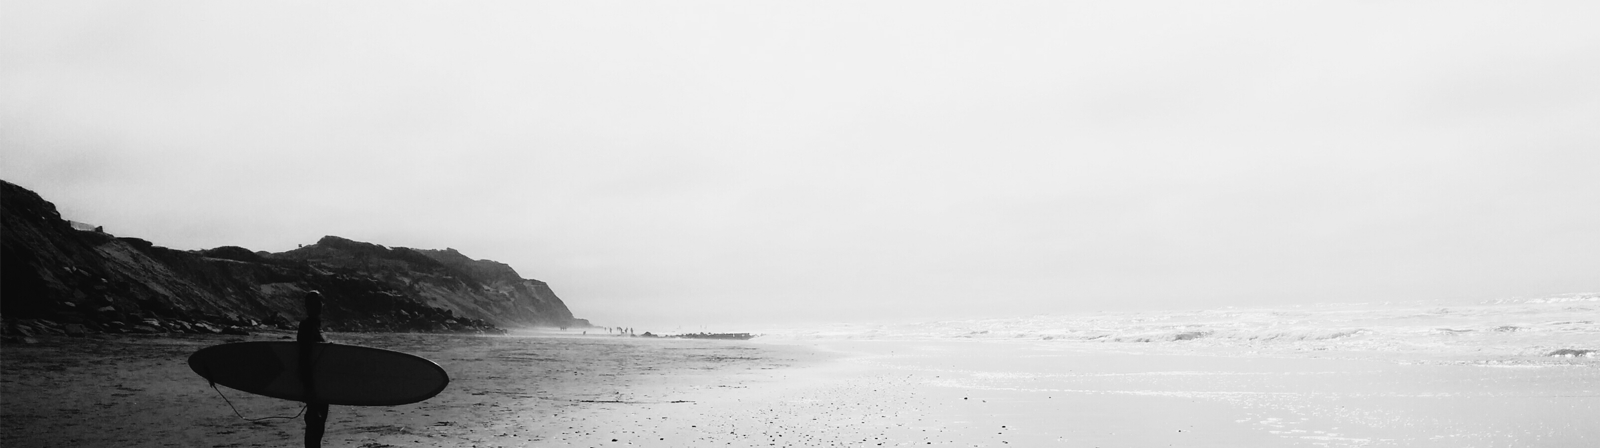
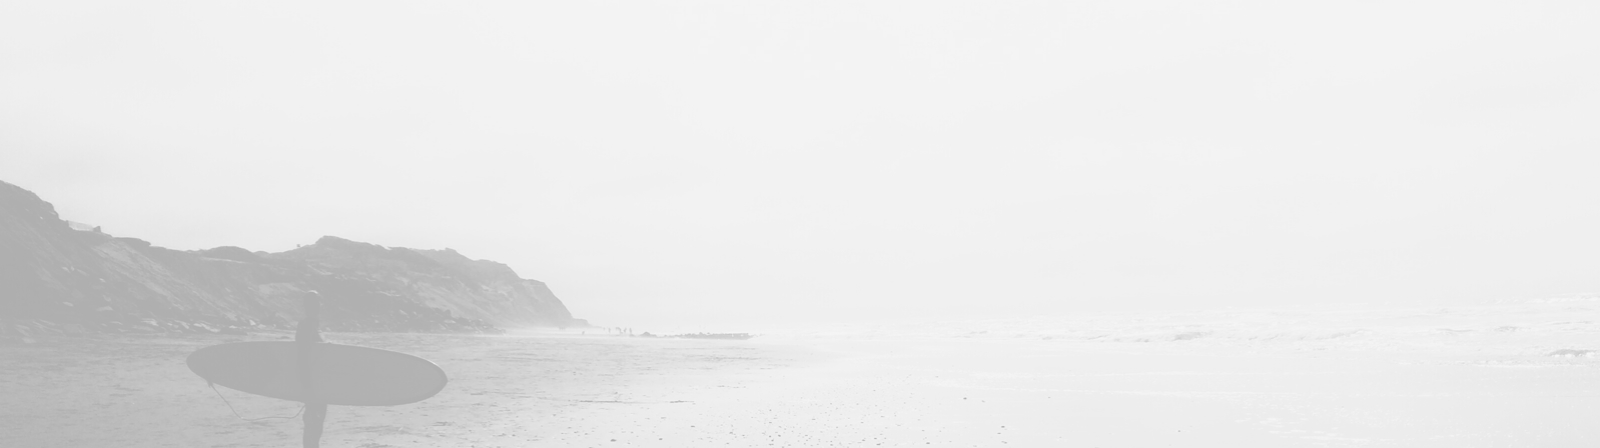
Внесены изменения на всех html страницах, для добавления фонa в footer

diff --git a/product/product.html b/product/product.html
@@ -5,8 +5,169 @@
     <meta http-equiv="X-UA-Compatible" content="IE=edge">
     <meta name="viewport" content="width=device-width, initial-scale=1.0">
     <title>Product</title>
+    <link rel="stylesheet" href="../style.css">
+    <link rel="preconnect" href="https://fonts.gstatic.com">
+    <link href="https://fonts.googleapis.com/css2?family=Lato:wght@100;300;400;700;900&display=swap" rel="stylesheet">
 </head>
 <body>
-    
+    <header class="header">
+        <div class="container">
+            <div class="header-top-menu">
+                <ul class="top-menu-bode-elem">
+                    <li>
+                        <a href="../index.html" class="logo"><img src="../img/logo.png" alt="logo"></a>
+                    </li>
+                    <li>
+                        <a href="#" class="search"><img src="../img/search.svg" alt="search"></a>
+                    </li>
+                </ul>
+                <ul class="top-menu-bode-elem">
+                    <li id="js-sandwich" class="sandwich">
+                        <span></span>
+                        <span></span>
+                        <span></span>
+
+                    </li>
+                    <li class="wrapper-auth">
+                        <a href="#" class="auth"><img src="../img/auth.svg" alt="log in"></a>
+                    </li>
+                    <li class="wrapper-basket">
+                        <a href="#" class="basket"><img src="../img/basket.svg" alt="basket"></a>
+                    </li>
+                </ul>
+            </div>
+        </div>
+        <nav id="js-sandwich-menu" class="sandwich-menu">
+            <div class="close-header-menu"><a id="js-btn-close" href="#"><img src="../img/close-head-menu.svg" alt="close menu"></a></div>
+            <h2 class="subtitle">menu</h2>
+            <ul class="items">
+                <li>man</li>
+                <li class="item"><a href="#">Accessories</a></li>
+                <li class="item"><a href="#">Bags</a></li>
+                <li class="item"><a href="#">Denim</a></li>
+                <li class="item"><a href="#">T-Shirts</a></li>
+            </ul>
+            <ul class="items">
+                <li>women</li>
+                <li class="item"><a href="#">Accessories</a></li>
+                <li class="item"><a href="#">Jackets & Coats</a></li>
+                <li class="item"><a href="#">Polos</a></li>
+                <li class="item"><a href="#">T-Shirts</a></li>
+                <li class="item"><a href="#">Shirts</a></li>
+            </ul>
+            <ul class="items">
+                <li>kids</li>
+                <li class="item"><a href="#">Accessories</a></li>
+                <li class="item"><a href="#">Jackets & Coats</a></li>
+                <li class="item"><a href="#">Polos</a></li>
+                <li class="item"><a href="#">T-Shirts</a></li>
+                <li class="item"><a href="#">Shirts</a></li>
+                <li class="item"><a href="#">Bags</a></li>
+            </ul>
+        </nav>
+    </header>
+    <section class="breadcrumb">
+        <div class="container breadcrumb-container">
+            <h2 class="subtitle">new arrivals</h2>
+            <div class="pagination">
+                <ul class="items">
+                    <li class="item">
+                        <a class="link " href="#">home</a>
+                    </li>
+                    <span>/</span>
+                    <li class="item">
+                        <a class="link " href="#">men</a>
+                    </li>
+                    <span>/</span>
+                    <li class="item">
+                        <a class="link active" href="#">new arrivals</a>
+                    </li>
+                </ul>
+            </div>
+        </div>
+    </section>
+    <main class="offer-ticket">
+        <div class="container">
+
+
+
+
+            <div class="offer-ticket-body">
+                <div class="ticket">
+                    <div class="ticket-hidden">
+                        <a href="#" class="btn--rectangle"><img src="../img/ticket-add-basket.svg" alt="add in basket">Add to Cart</a>
+                    </div>
+                    <img class="ticket-head" src="../img/photo-1.jpg" alt="photo man">
+                    <div class="ticket-footer">
+                        <h3>ellery x m'o capsule</h3>
+                        <p>Known for her sculptural takes on traditional tailoring, Australian arbiter of cool Kym Ellery teams up with Moda Operandi.</p>
+                        <span class="price">$52.00</span>
+                    </div>
+                </div>
+                <div class="ticket">
+                    <div class="ticket-hidden">
+                        <a href="#" class="btn--rectangle"><img src="../img/ticket-add-basket.svg" alt="add in basket">Add to Cart</a>
+                    </div>
+                    <img class="ticket-head" src="../img/photo-7.jpg" alt="photo women">
+                    <div class="ticket-footer">
+                        <h3>ellery x m'o capsule</h3>
+                        <p>Known for her sculptural takes on traditional tailoring, Australian arbiter of cool Kym Ellery teams up with Moda Operandi.</p>
+                        <span class="price">$52.00</span>
+                    </div>
+                </div>
+                <div class="ticket">
+                    <div class="ticket-hidden">
+                        <a href="#" class="btn--rectangle"><img src="../img/ticket-add-basket.svg" alt="add in basket">Add to Cart</a>
+                    </div>
+                    <img class="ticket-head" src="../img/photo-3.jpg" alt="photo man">
+                    <div class="ticket-footer">
+                        <h3>ellery x m'o capsule</h3>
+                        <p>Known for her sculptural takes on traditional tailoring, Australian arbiter of cool Kym Ellery teams up with Moda Operandi.</p>
+                        <span class="price">$52.00</span>
+                    </div>
+                </div>
+            </div>
+        </div>
+    </main>
+    <footer class="footer">
+        <div class="footer-bg">
+            <div class="container contact-head">
+                <div class="about">
+                    <img src="../img/photo-human.png" alt="human">
+                    <p class="text">“Vestibulum quis porttitor dui! Quisque viverra nunc mi, <i>a pulvinar purus condimentum“</i></p>
+                </div>
+                <div class="send-data">
+                    <h3 class="subtitle">subscribe</h3>
+                    <p class="text">for our newletter and promotion</p>
+                    <div class="wrapper-send-data">
+                        <input id="js-pattern-email" class="field" type="text" placeholder="Enter Your Email">
+                        <a id="btn-subscribe" class="btn cleared" href="">Subscribe</a>
+                    </div>
+                </div>
+            </div>
+        </div>
+        <div class="contact-footer">
+            <div class="container body-footer">
+                <div class="copyright">
+                    <p class="text">&copy; 2021  Brand  All Rights Reserved.</p>
+                </div>
+                <div class="social-networks">
+                    <div class="facebook">
+                        <img src="../img/facebook.svg" alt="facebook">
+                    </div>
+                    <div class="instagram">
+                        <img src="../img/instagram.svg" alt="instagram">
+                    </div>
+                    <div class="pinterest">
+                        <img src="../img/pinterest.svg" alt="pinterest">
+                    </div>
+                    <div class="twitter">
+                        <img src="../img/twitter.svg" alt="twitter">
+                    </div>
+                </div>
+            </div>
+        </div>          
+    </footer>
+    <script src="../js/main.js"></script>
 </body>
 </html>

diff --git a/index.html b/index.html
@@ -6,7 +6,6 @@
     <meta name="viewport" content="width=device-width, initial-scale=1.0">
     <title>OnlineStore</title>
     <link rel="stylesheet" href="style.css">
-    <?xml-stylesheet type="text/css" href="style.css"?>
     <link rel="preconnect" href="https://fonts.gstatic.com">
     <link href="https://fonts.googleapis.com/css2?family=Lato:wght@100;300;400;700;900&display=swap" rel="stylesheet">
 </head>
@@ -206,17 +205,19 @@
         </div>
     </div>
     <div class="footer">
-        <div class="container contact-head">
-            <div class="about">
-                <img src="img/photo-human.png" alt="human">
-                <p class="text">“Vestibulum quis porttitor dui! Quisque viverra nunc mi, <i>a pulvinar purus condimentum“</i></p>
-            </div>
-            <div class="send-data">
-                <h3 class="subtitle">subscribe</h3>
-                <p class="text">for our newletter and promotion</p>
-                <div class="wrapper-send-data">
-                    <input id="js-pattern-email" class="field" type="text" placeholder="Enter Your Email">
-                    <a id="btn-subscribe" class="btn cleared" href="">Subscribe</a>
+        <div class="footer-bg">
+            <div class="container contact-head">
+                <div class="about">
+                    <img src="img/photo-human.png" alt="human">
+                    <p class="text">“Vestibulum quis porttitor dui! Quisque viverra nunc mi, <i>a pulvinar purus condimentum“</i></p>
+                </div>
+                <div class="send-data">
+                    <h3 class="subtitle">subscribe</h3>
+                    <p class="text">for our newletter and promotion</p>
+                    <div class="wrapper-send-data">
+                        <input id="js-pattern-email" class="field" type="text" placeholder="Enter Your Email">
+                        <a id="btn-subscribe" class="btn cleared" href="">Subscribe</a>
+                    </div>
                 </div>
             </div>
         </div>

diff --git a/catalog/catalog.html b/catalog/catalog.html
@@ -291,17 +291,19 @@
         </div>
     </section>
     <footer class="footer">
-        <div class="container contact-head">
-            <div class="about">
-                <img src="../img/photo-human.png" alt="human">
-                <p class="text">“Vestibulum quis porttitor dui! Quisque viverra nunc mi, <i>a pulvinar purus condimentum“</i></p>
-            </div>
-            <div class="send-data">
-                <h3 class="subtitle">subscribe</h3>
-                <p class="text">for our newletter and promotion</p>
-                <div class="wrapper-send-data">
-                    <input id="js-pattern-email" class="field" type="text" placeholder="Enter Your Email">
-                    <a id="btn-subscribe" class="btn cleared" href="">Subscribe</a>
+        <div class="footer-bg">
+            <div class="container contact-head">
+                <div class="about">
+                    <img src="../img/photo-human.png" alt="human">
+                    <p class="text">“Vestibulum quis porttitor dui! Quisque viverra nunc mi, <i>a pulvinar purus condimentum“</i></p>
+                </div>
+                <div class="send-data">
+                    <h3 class="subtitle">subscribe</h3>
+                    <p class="text">for our newletter and promotion</p>
+                    <div class="wrapper-send-data">
+                        <input id="js-pattern-email" class="field" type="text" placeholder="Enter Your Email">
+                        <a id="btn-subscribe" class="btn cleared" href="">Subscribe</a>
+                    </div>
                 </div>
             </div>
         </div>

diff --git a/style.css b/style.css
@@ -413,6 +413,11 @@ body {
 
 /* style footer */
 
+
+.footer-bg {
+    background: url(img/background-contact-footer.jpg) center / cover no-repeat;
+}
+
 .contact-footer {
     background: #222224;
 }
